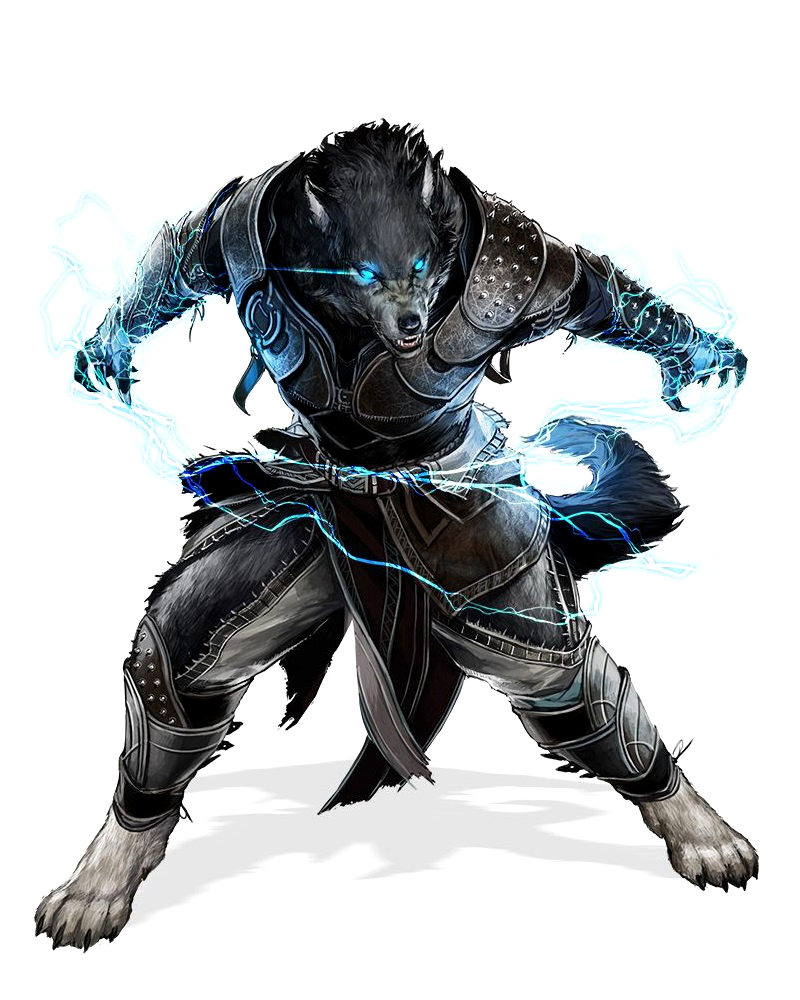
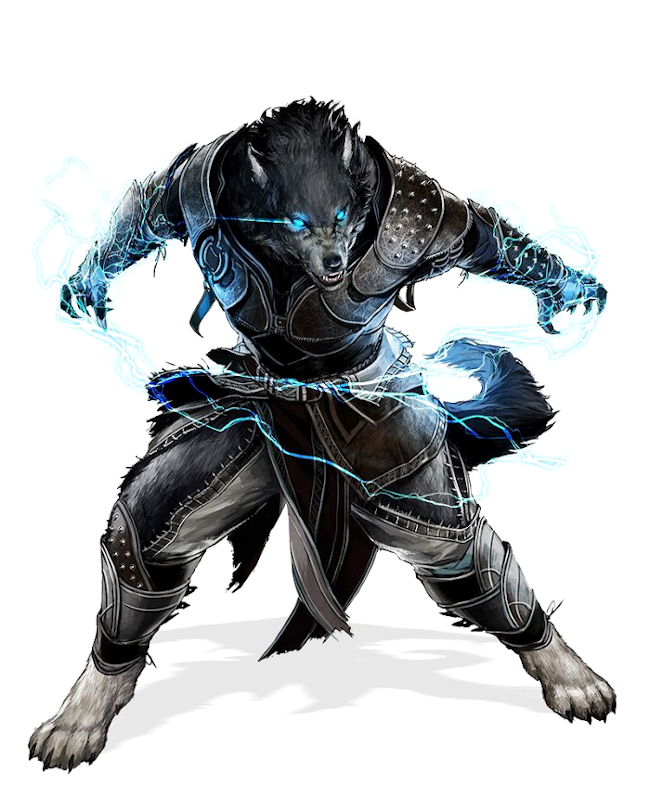
some image work and border fix, giovanni

diff --git a/WebContent/characterPage.html b/WebContent/characterPage.html
@@ -1,0 +1,68 @@
+<!DOCTYPE html>
+<html>
+<head>
+<meta charset="utf-8">
+<title>Battle Fantasy World</title>
+<link rel="stylesheet" type="text/css" href="./css/characterPage.css" />
+<link rel="stylesheet" href="https://stackpath.bootstrapcdn.com/bootstrap/4.3.1/css/bootstrap.min.css">
+<meta name="viewport" content="width=device-width, initial-scale=1, shrink-to-fit=no">
+</head>
+<body class="viewport">
+
+	
+	
+	<div class="container-fluid" >
+		<h2 id="title">About us</h2>
+	</div>
+
+	<div class="container-fluid" id="row" >
+		<div class="row">
+			<div id="colImg">
+				<img src="./img/dwarfFace1.png">
+			</div>
+			<div class="col" id ="col">
+				<h4 class="names">Melano il Nano</h4>
+				<p>
+				Melano il nano è un nano cattivissimo!!!!! ARGH! <br>
+				</p>
+			</div>
+		</div>
+	</div>
+
+
+	<div class="container-fluid"  id="row">
+		<div class="row">
+			<div id="colImg">
+				<img src="./img/halfDragonFace1.png">
+			</div>
+			<div class="col" id ="col">
+				<h4 class="names">Paperino il drago azzurrino</h4>
+				<p>
+				Paperino è sempre squattrinato. <br>
+				</p>
+			</div>
+		</div>
+	</div>
+
+	<div class="container-fluid"  id="row">
+		<div class="row">
+			<div id="colImg">
+				<img src="./img/wherewolfFace1.png">
+			</div>
+			<div class="col" id ="col">
+				<h4 class="names">Lupo Alberto</h4>
+				<p>
+				Lupo albero è talmente cattivo che quando ringhia arrivano le parerette. <br>
+				</p>
+			</div>
+		</div>
+	</div>
+
+	<hr>
+	
+	<div class="container-fluid" id="link">
+	<a href="index.html">Back to Home</a>
+	</div>
+
+</body>
+</html>

diff --git a/WebContent/css/characterPage.css b/WebContent/css/characterPage.css
@@ -1,0 +1,76 @@
+html {
+	background: url("/Oved266Green/img/background.jpg") no-repeat center center fixed;
+	-webkit-background-size: cover;
+	-moz-background-size: cover;
+	-o-background-size: cover;
+	background-size: cover;
+	font-family: "Gill Sans W04", GillSans, "Gill Sans", "Gill Sans MT", Calibri, "Trebuchet MS", sans-serif;
+}
+
+.viewport {
+	text-align: center;
+	color: #fff;
+	margin: 40px auto;
+	background: rgba(22, 22, 22, 0.5);
+	width: 100%;
+	max-width: 960px;
+	border-radius: 5px;
+	padding: 32px;
+	border: 1.5px outset #d76714;
+}
+
+.names{
+	font-weight: bolder;
+	text-decoration: underline;
+	color: goldenrod;
+}
+
+#title {
+	font-weight: bolder;
+	text-decoration: underline;
+	font-size: 3em;
+	color: goldenrod;
+	padding-bottom: 30px;
+}
+
+#row{
+	padding-bottom: 16px;
+}
+
+#col{
+	padding: 16px;
+	text-align: justify;
+	color: #fff;
+	margin: 40px auto;
+	background: rgba(22, 22, 22, 0.75);
+	width: 100%;
+	max-width: 960px;
+	border-radius: 5px;
+	border: 1.5px outset #d76714;
+}
+
+#colImg{
+	margin-left: 32px;
+	margin-right: 32px;
+}
+
+#link{
+	padding: 1px;
+	text-align: center;
+	color: #fff;
+	background: rgba(22, 22, 22, 0.75);
+	border-radius: 5px;
+	width: 170px;
+	margin-top: -5px;
+	border: 1.5px outset #d76714;
+}
+
+#link a:link, #link a:visited {
+	color: gold;
+	font-weight: bolder;
+	font-size: 1.3em;
+}
+
+#link a:hover, #link a:active {
+	color: gold;
+}
